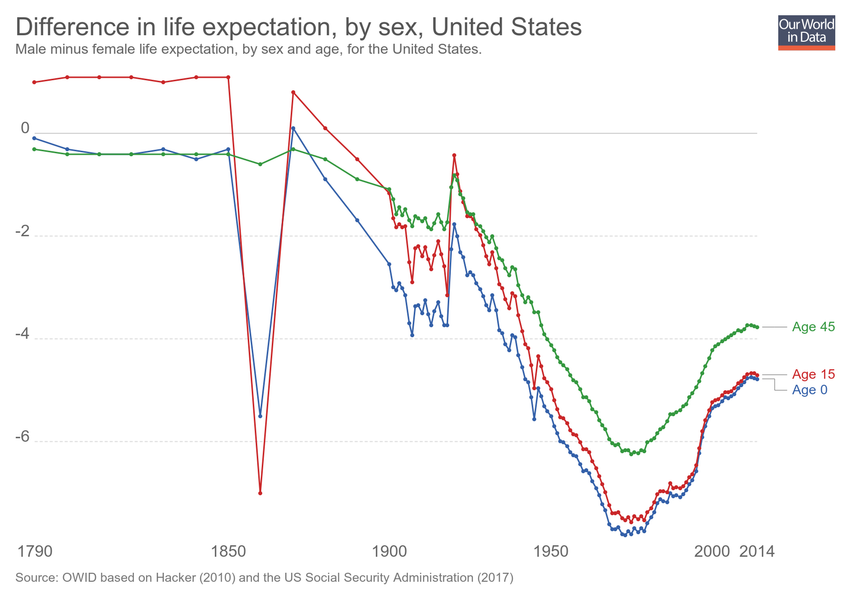
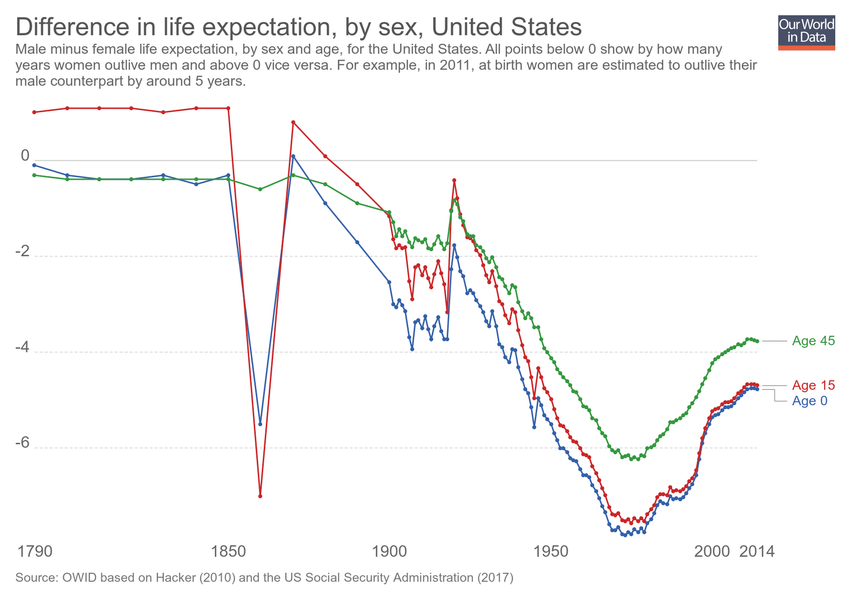
Updating chart difference-in-life-expectation-by-sex

Changed region(s): [[0.0, 0.06, 0.9788, 0.9], [0.0, 0.72, 0.0306, 0.75]]

diff --git a/grapher/difference-in-life-expectation-by-sex.html b/grapher/difference-in-life-expectation-by-sex.html
@@ -1,4 +1,4 @@
-<!doctype html><html><head><meta name="viewport" content="width=device-width, initial-scale=1" /><title>Difference in life expectation, by sex - Our World in Data</title><meta name="description" content="Male minus female life expectation, by sex and age, for the United States." /><link rel="canonical" href="https://ourworldindata.org/grapher/difference-in-life-expectation-by-sex" /><meta property="fb:app_id" content="1149943818390250" /><meta property="og:url" content="https://ourworldindata.org/grapher/difference-in-life-expectation-by-sex" /><meta property="og:title" content="Difference in life expectation, by sex" /><meta property="og:description" content="Male minus female life expectation, by sex and age, for the United States." /><meta property="og:image" content="https://ourworldindata.org/grapher/exports/difference-in-life-expectation-by-sex.png?v=1" /><meta property="og:image:width" content="850" /><meta property="og:image:height" content="600" /><meta property="og:site_name" content="Our World in Data" /><meta name="twitter:card" content="summary_large_image" /><meta name="twitter:site" content="@OurWorldInData" /><meta name="twitter:creator" content="@OurWorldInData" /><meta name="twitter:title" content="Difference in life expectation, by sex" /><meta name="twitter:description" content="Male minus female life expectation, by sex and age, for the United States." /><meta name="twitter:image" content="https://ourworldindata.org/grapher/exports/difference-in-life-expectation-by-sex.png?v=1" /><style>
+<!doctype html><html><head><meta name="viewport" content="width=device-width, initial-scale=1" /><title>Difference in life expectation, by sex - Our World in Data</title><meta name="description" content="Male minus female life expectation, by sex and age, for the United States. All points below 0 show by how many years women outlive men and above 0 vice versa. For example, in 2011, at birth women are estimated to outlive their male counterpart by around 5 years." /><link rel="canonical" href="https://ourworldindata.org/grapher/difference-in-life-expectation-by-sex" /><meta property="fb:app_id" content="1149943818390250" /><meta property="og:url" content="https://ourworldindata.org/grapher/difference-in-life-expectation-by-sex" /><meta property="og:title" content="Difference in life expectation, by sex" /><meta property="og:description" content="Male minus female life expectation, by sex and age, for the United States. All points below 0 show by how many years women outlive men and above 0 vice versa. For example, in 2011, at birth women are estimated to outlive their male counterpart by around 5 years." /><meta property="og:image" content="https://ourworldindata.org/grapher/exports/difference-in-life-expectation-by-sex.png?v=3" /><meta property="og:image:width" content="850" /><meta property="og:image:height" content="600" /><meta property="og:site_name" content="Our World in Data" /><meta name="twitter:card" content="summary_large_image" /><meta name="twitter:site" content="@OurWorldInData" /><meta name="twitter:creator" content="@OurWorldInData" /><meta name="twitter:title" content="Difference in life expectation, by sex" /><meta name="twitter:description" content="Male minus female life expectation, by sex and age, for the United States. All points below 0 show by how many years women outlive men and above 0 vice versa. For example, in 2011, at birth women are estimated to outlive their male counterpart by around 5 years." /><meta name="twitter:image" content="https://ourworldindata.org/grapher/exports/difference-in-life-expectation-by-sex.png?v=3" /><style>
         html, body {
             height: 100%;
             margin: 0;
@@ -20,8 +20,8 @@
         }
     </style><noscript><style>
                     figure { display: none !important; }
-                </style></noscript><link rel="stylesheet" href="https://ourworldindata.org/grapher/assets/commons.bundle.0cade97703a5a10acaac.css" /><link rel="preload" href="/grapher/data/variables/97741+97742+97743.json?v=1" as="fetch" crossorigin /></head><body class="singleChart"><figure data-grapher-src="/grapher/difference-in-life-expectation-by-sex"></figure><noscript id="fallback"><img src="/grapher/exports/difference-in-life-expectation-by-sex.svg" /><p>Interactive visualization requires JavaScript</p></noscript><script src="https://cdn.polyfill.io/v2/polyfill.min.js?features=es6,fetch"></script><script src="https://ourworldindata.org/grapher/assets/commons.bundle.0cade97703a5a10acaac.js"></script><script src="https://ourworldindata.org/grapher/assets/charts.bundle.0cade97703a5a10acaac.js"></script><script>
-        var jsonConfig = {"map":{"projection":"World","colorSchemeLabels":[],"colorSchemeValues":[],"customNumericColors":[],"customCategoryColors":{},"customCategoryLabels":{},"customHiddenCategories":{}},"tab":"chart","slug":"difference-in-life-expectation-by-sex","type":"LineChart","title":"Difference in life expectation, by sex","xAxis":{"scaleType":"linear"},"yAxis":{"min":0,"scaleType":"linear"},"version":1,"subtitle":"Male minus female life expectation, by sex and age, for the United States.","hasMapTab":false,"stackMode":"absolute","dimensions":[{"display":{"name":"Age 0","unit":"years"},"property":"y","variableId":97741},{"display":{"name":"Age 15","unit":"years"},"property":"y","variableId":97742},{"display":{"name":"Age 45","unit":"years"},"property":"y","variableId":97743}],"isAutoSlug":true,"hasChartTab":true,"isPublished":true,"selectedData":[{"index":0,"entityId":13},{"index":1,"entityId":13},{"index":2,"entityId":13}],"addCountryMode":"change-country","id":2934};
+                </style></noscript><link rel="stylesheet" href="https://ourworldindata.org/grapher/assets/commons.bundle.0cade97703a5a10acaac.css" /><link rel="preload" href="/grapher/data/variables/97741+97742+97743.json?v=3" as="fetch" crossorigin /></head><body class="singleChart"><figure data-grapher-src="/grapher/difference-in-life-expectation-by-sex"></figure><noscript id="fallback"><img src="/grapher/exports/difference-in-life-expectation-by-sex.svg" /><p>Interactive visualization requires JavaScript</p></noscript><script src="https://cdn.polyfill.io/v2/polyfill.min.js?features=es6,fetch"></script><script src="https://ourworldindata.org/grapher/assets/commons.bundle.0cade97703a5a10acaac.js"></script><script src="https://ourworldindata.org/grapher/assets/charts.bundle.0cade97703a5a10acaac.js"></script><script>
+        var jsonConfig = {"id":2934,"map":{"projection":"World","colorSchemeLabels":[],"colorSchemeValues":[],"customNumericColors":[],"customCategoryColors":{},"customCategoryLabels":{},"customHiddenCategories":{}},"tab":"chart","slug":"difference-in-life-expectation-by-sex","type":"LineChart","title":"Difference in life expectation, by sex","xAxis":{"scaleType":"linear"},"yAxis":{"min":0,"scaleType":"linear"},"version":3,"subtitle":"Male minus female life expectation, by sex and age, for the United States. All points below 0 show by how many years women outlive men and above 0 vice versa. For example, in 2011, at birth women are estimated to outlive their male counterpart by around 5 years.","hasMapTab":false,"stackMode":"absolute","dimensions":[{"display":{"name":"Age 0","unit":"years"},"property":"y","variableId":97741},{"display":{"name":"Age 15","unit":"years"},"property":"y","variableId":97742},{"display":{"name":"Age 45","unit":"years"},"property":"y","variableId":97743}],"hasChartTab":true,"isPublished":true,"selectedData":[{"index":0,"entityId":13},{"index":1,"entityId":13},{"index":2,"entityId":13}],"addCountryMode":"change-country"};
         var figure = document.getElementsByTagName("figure")[0];
         try {
             window.App = {};
